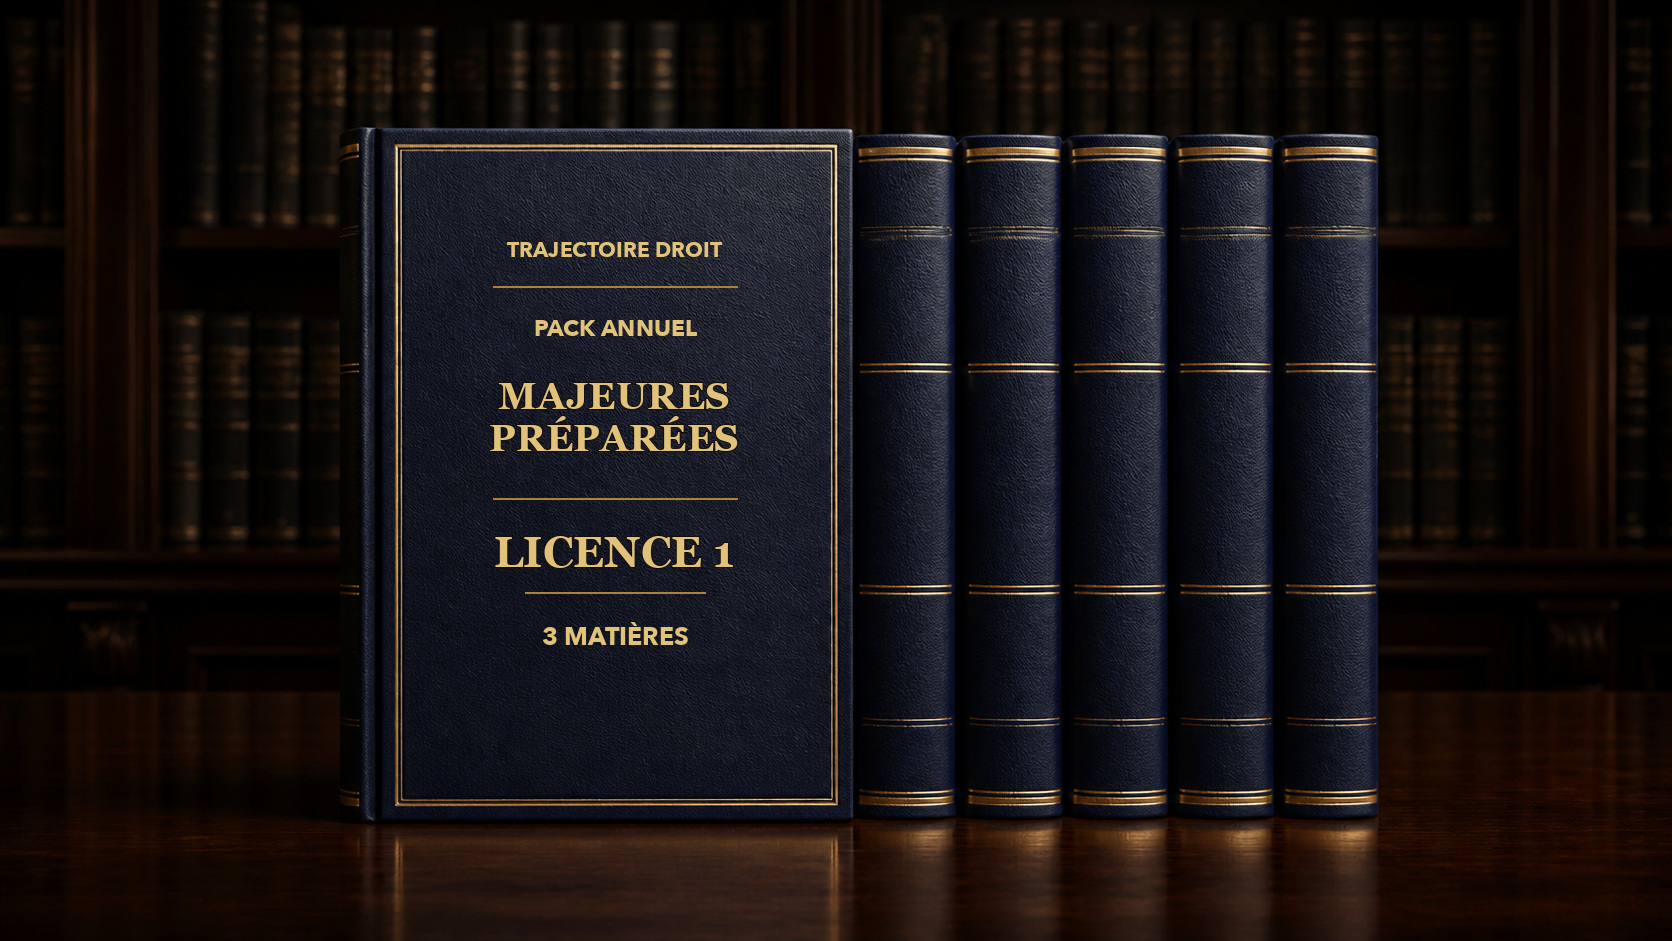
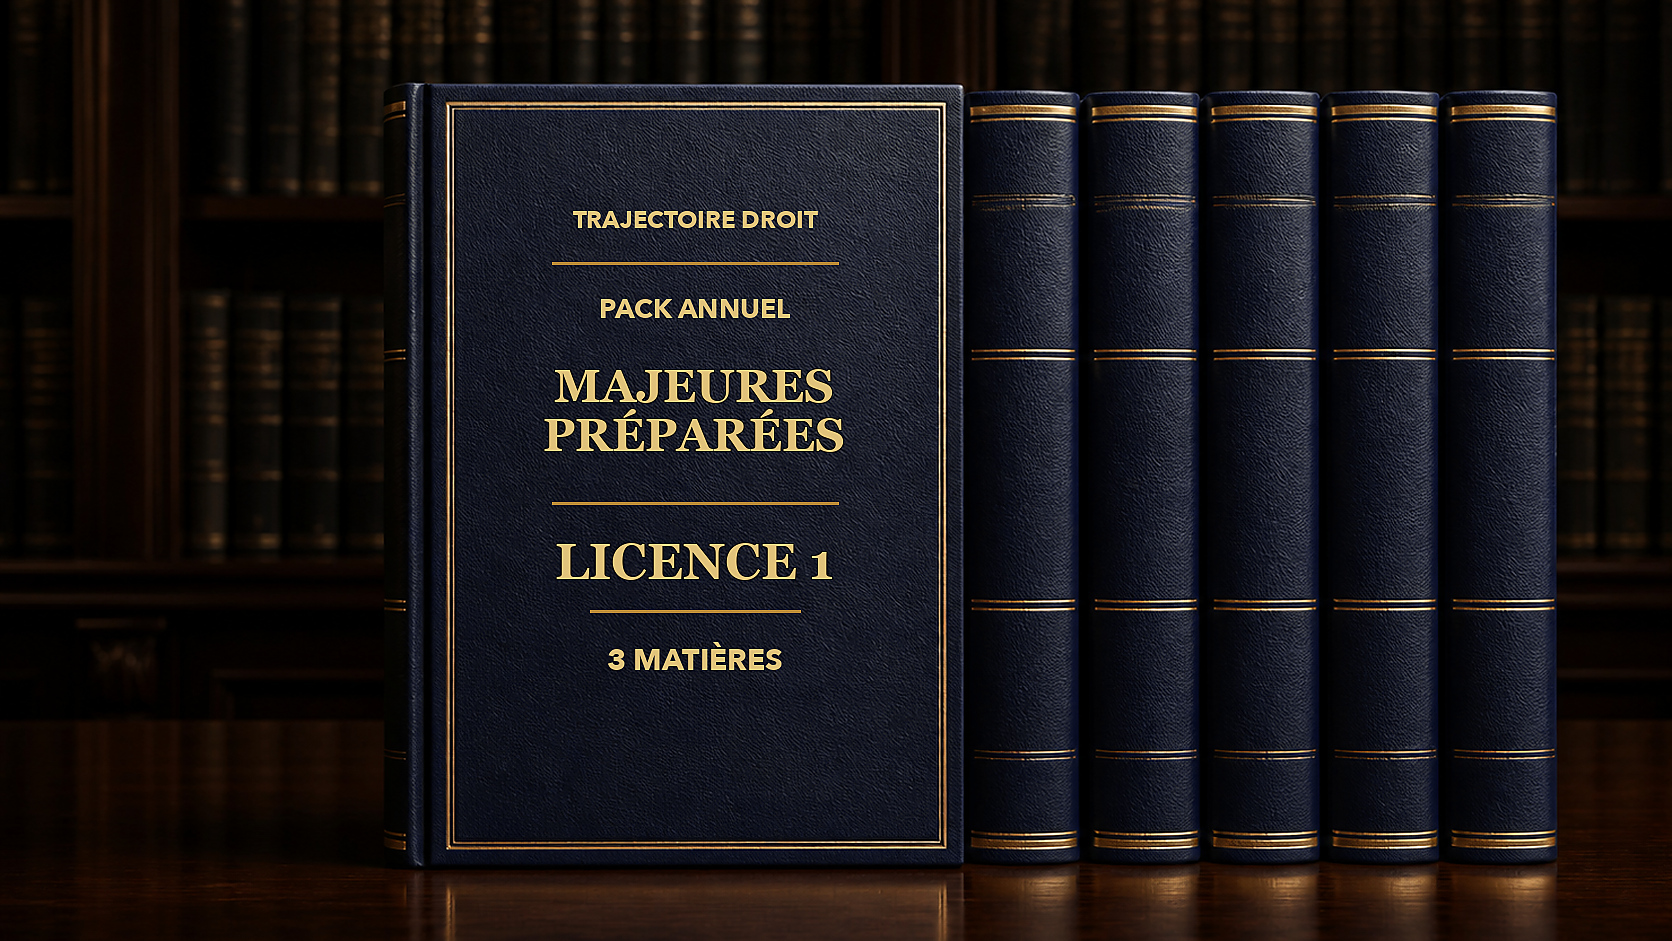
Zoome et renforce les titres des packs annuels

diff --git a/revisions.html b/revisions.html
@@ -301,15 +301,15 @@
         <p class="lead" style="margin-bottom:30px">Chaque pack réunit les recueils disponibles de ton année. Tu retrouves, pour chaque arrêt, les faits, la procédure, la solution et la portée.</p>
         <div class="grid-3">
           <article class="card card--product fade-in">
-            <div class="product__thumb has-cover"><span class="badge badge--format">Pack annuel</span><img src="assets/covers/pack-fiches-arret-l1.jpg?v=20260821b" alt="Pack annuel de fiches d'arrêt L1, couverture Trajectoire Droit" loading="lazy"></div>
+            <div class="product__thumb has-cover"><span class="badge badge--format">Pack annuel</span><img src="assets/covers/pack-fiches-arret-l1.jpg?v=20260821c" alt="Pack annuel de fiches d'arrêt L1, couverture Trajectoire Droit" loading="lazy"></div>
             <div class="product__body"><h3 class="product__title">Fiches d'arrêt L1</h3><div class="product__meta"><span>6 matières</span><span>·</span><span>Accès à vie</span></div><p class="product__desc">Les arrêts essentiels d'introduction au droit, de constitutionnel, de droit des personnes, de la famille et de relations internationales.</p><div><span class="product__price-old">59,94 €</span><span class="product__price">45 €</span><span class="badge badge--success" style="margin-left:6px">-25 %</span></div><button type="button" class="btn btn--primary btn--full product__cta" data-tjd-produit="pack-fiches-arret-l1">Acheter le pack · 45 €</button></div>
           </article>
           <article class="card card--product fade-in">
-            <div class="product__thumb has-cover"><span class="badge badge--format">Pack annuel</span><img src="assets/covers/pack-fiches-arret-l2.jpg?v=20260821b" alt="Pack annuel de fiches d'arrêt L2, couverture Trajectoire Droit" loading="lazy"></div>
+            <div class="product__thumb has-cover"><span class="badge badge--format">Pack annuel</span><img src="assets/covers/pack-fiches-arret-l2.jpg?v=20260821c" alt="Pack annuel de fiches d'arrêt L2, couverture Trajectoire Droit" loading="lazy"></div>
             <div class="product__body"><h3 class="product__title">Fiches d'arrêt L2</h3><div class="product__meta"><span>5 matières</span><span>·</span><span>Accès à vie</span></div><p class="product__desc">Droit administratif, contrats, obligations, droit pénal et droit des biens dans un seul achat.</p><div><span class="product__price-old">49,95 €</span><span class="product__price">38 €</span><span class="badge badge--success" style="margin-left:6px">-24 %</span></div><button type="button" class="btn btn--primary btn--full product__cta" data-tjd-produit="pack-fiches-arret-l2">Acheter le pack · 38 €</button></div>
           </article>
           <article class="card card--product fade-in">
-            <div class="product__thumb has-cover"><span class="badge badge--format">Pack annuel</span><img src="assets/covers/pack-fiches-arret-l3.jpg?v=20260821b" alt="Pack annuel de fiches d'arrêt L3, couverture Trajectoire Droit" loading="lazy"></div>
+            <div class="product__thumb has-cover"><span class="badge badge--format">Pack annuel</span><img src="assets/covers/pack-fiches-arret-l3.jpg?v=20260821c" alt="Pack annuel de fiches d'arrêt L3, couverture Trajectoire Droit" loading="lazy"></div>
             <div class="product__body"><h3 class="product__title">Fiches d'arrêt L3</h3><div class="product__meta"><span>5 matières</span><span>·</span><span>Accès à vie</span></div><p class="product__desc">Procédure pénale, sociétés, contrats spéciaux, droit commercial et droit du travail.</p><div><span class="product__price-old">49,95 €</span><span class="product__price">38 €</span><span class="badge badge--success" style="margin-left:6px">-24 %</span></div><button type="button" class="btn btn--primary btn--full product__cta" data-tjd-produit="pack-fiches-arret-l3">Acheter le pack · 38 €</button></div>
           </article>
         </div>

diff --git a/cours-fiches.html b/cours-fiches.html
@@ -301,15 +301,15 @@
         <p class="lead" style="margin-bottom:30px">Chaque matière conserve son document complet, avec ses fiches détaillées, ses plans et ses annexes. Tu paies environ 25 % de moins que matière par matière.</p>
         <div class="grid-3">
           <article class="card card--product fade-in">
-            <div class="product__thumb has-cover"><span class="badge badge--format">Pack annuel</span><img src="assets/covers/pack-cours-complets-l1.jpg?v=20260821b" alt="Pack annuel de cours complets L1, couverture Trajectoire Droit" loading="lazy"></div>
+            <div class="product__thumb has-cover"><span class="badge badge--format">Pack annuel</span><img src="assets/covers/pack-cours-complets-l1.jpg?v=20260821c" alt="Pack annuel de cours complets L1, couverture Trajectoire Droit" loading="lazy"></div>
             <div class="product__body"><h3 class="product__title">Cours complets L1</h3><div class="product__meta"><span>9 matières</span><span>·</span><span>Accès à vie</span></div><p class="product__desc">Les neuf cours complets disponibles pour couvrir les matières fondamentales de la première année.</p><div><span class="product__price-old">179,91 €</span><span class="product__price">135 €</span><span class="badge badge--success" style="margin-left:6px">-25 %</span></div><button type="button" class="btn btn--primary btn--full product__cta" data-tjd-produit="pack-cours-complets-l1">Acheter le pack · 135 €</button></div>
           </article>
           <article class="card card--product fade-in">
-            <div class="product__thumb has-cover"><span class="badge badge--format">Pack annuel</span><img src="assets/covers/pack-cours-complets-l2.jpg?v=20260821b" alt="Pack annuel de cours complets L2, couverture Trajectoire Droit" loading="lazy"></div>
+            <div class="product__thumb has-cover"><span class="badge badge--format">Pack annuel</span><img src="assets/covers/pack-cours-complets-l2.jpg?v=20260821c" alt="Pack annuel de cours complets L2, couverture Trajectoire Droit" loading="lazy"></div>
             <div class="product__body"><h3 class="product__title">Cours complets L2</h3><div class="product__meta"><span>6 matières</span><span>·</span><span>Accès à vie</span></div><p class="product__desc">Obligations, administratif, pénal, contrats et biens réunis pour ta deuxième année.</p><div><span class="product__price-old">119,94 €</span><span class="product__price">90 €</span><span class="badge badge--success" style="margin-left:6px">-25 %</span></div><button type="button" class="btn btn--primary btn--full product__cta" data-tjd-produit="pack-cours-complets-l2">Acheter le pack · 90 €</button></div>
           </article>
           <article class="card card--product fade-in">
-            <div class="product__thumb has-cover"><span class="badge badge--format">Pack annuel</span><img src="assets/covers/pack-cours-complets-l3.jpg?v=20260821b" alt="Pack annuel de cours complets L3, couverture Trajectoire Droit" loading="lazy"></div>
+            <div class="product__thumb has-cover"><span class="badge badge--format">Pack annuel</span><img src="assets/covers/pack-cours-complets-l3.jpg?v=20260821c" alt="Pack annuel de cours complets L3, couverture Trajectoire Droit" loading="lazy"></div>
             <div class="product__body"><h3 class="product__title">Cours complets L3</h3><div class="product__meta"><span>5 matières</span><span>·</span><span>Accès à vie</span></div><p class="product__desc">Travail, sociétés, commercial, procédure pénale et contrats spéciaux dans un seul pack.</p><div><span class="product__price-old">99,95 €</span><span class="product__price">75 €</span><span class="badge badge--success" style="margin-left:6px">-25 %</span></div><button type="button" class="btn btn--primary btn--full product__cta" data-tjd-produit="pack-cours-complets-l3">Acheter le pack · 75 €</button></div>
           </article>
         </div>

diff --git a/majeures-preparees.html b/majeures-preparees.html
@@ -339,7 +339,7 @@
         <p class="lead" style="margin-bottom:30px">Tu reçois toutes les matières disponibles de ton année, avec le PDF principal et son plan. Le contenu est identique aux achats à l'unité.</p>
         <div class="grid-3">
           <article class="card card--product fade-in">
-            <div class="product__thumb has-cover"><span class="badge badge--format">Pack annuel</span><img src="assets/covers/pack-majeures-l1.jpg?v=20260821b" alt="Pack annuel de majeures préparées L1, couverture Trajectoire Droit" loading="lazy"></div>
+            <div class="product__thumb has-cover"><span class="badge badge--format">Pack annuel</span><img src="assets/covers/pack-majeures-l1.jpg?v=20260821c" alt="Pack annuel de majeures préparées L1, couverture Trajectoire Droit" loading="lazy"></div>
             <div class="product__body">
               <h3 class="product__title">Majeures préparées L1</h3>
               <div class="product__meta"><span>3 matières</span><span>·</span><span>6 PDF</span><span>·</span><span>Accès à vie</span></div>
@@ -349,7 +349,7 @@
             </div>
           </article>
           <article class="card card--product fade-in">
-            <div class="product__thumb has-cover"><span class="badge badge--format">Pack annuel</span><img src="assets/covers/pack-majeures-l2.jpg?v=20260821b" alt="Pack annuel de majeures préparées L2, couverture Trajectoire Droit" loading="lazy"></div>
+            <div class="product__thumb has-cover"><span class="badge badge--format">Pack annuel</span><img src="assets/covers/pack-majeures-l2.jpg?v=20260821c" alt="Pack annuel de majeures préparées L2, couverture Trajectoire Droit" loading="lazy"></div>
             <div class="product__body">
               <h3 class="product__title">Majeures préparées L2</h3>
               <div class="product__meta"><span>7 matières</span><span>·</span><span>14 PDF</span><span>·</span><span>Accès à vie</span></div>
@@ -359,7 +359,7 @@
             </div>
           </article>
           <article class="card card--product fade-in">
-            <div class="product__thumb has-cover"><span class="badge badge--format">Pack annuel</span><img src="assets/covers/pack-majeures-l3.jpg?v=20260821b" alt="Pack annuel de majeures préparées L3, couverture Trajectoire Droit" loading="lazy"></div>
+            <div class="product__thumb has-cover"><span class="badge badge--format">Pack annuel</span><img src="assets/covers/pack-majeures-l3.jpg?v=20260821c" alt="Pack annuel de majeures préparées L3, couverture Trajectoire Droit" loading="lazy"></div>
             <div class="product__body">
               <h3 class="product__title">Majeures préparées L3</h3>
               <div class="product__meta"><span>8 matières</span><span>·</span><span>16 PDF</span><span>·</span><span>Accès à vie</span></div>
